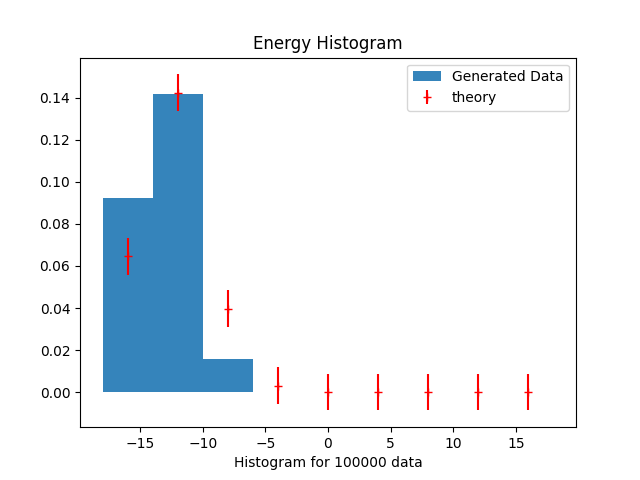
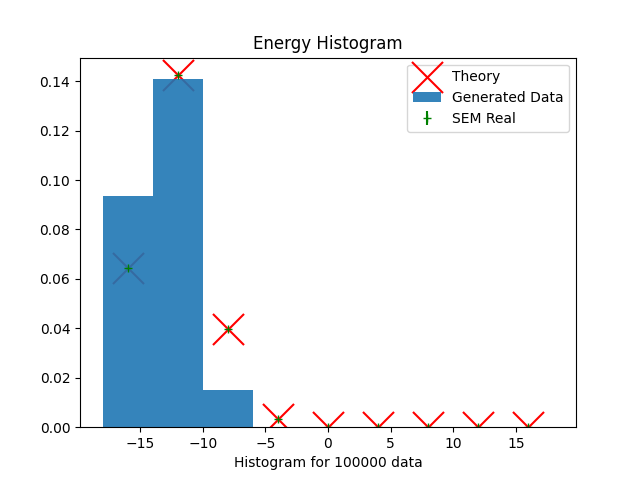
Histograms Errors Update

diff --git a/testData_x016.py b/testData_x016.py
@@ -5,7 +5,8 @@ isingSize = 16  # <- size of ising model configuration
 inputNoise = 32  # <- size of input noise
 beta = "s0100"
 
-fakeDataPath = "outIsingData/" + beta + "_x016/16-" + beta + "[" + str(inputNoise) + "]/outputData(16-" + beta + ")TestFileLinear[" + str(inputNoise) + "]Generated.npy"  # <-path to save the data
+fakeDataPath = "outIsingData/" + beta + "_x016/16-" + beta + "[" + str(
+    inputNoise) + "]/outputData(16-" + beta + ")TestFileLinear[" + str(inputNoise) + "].npy"  # <-path to save the data
 ising_fakeData = np.load(fakeDataPath)  # <- data for the test from the generated batch data
 # ising_data = np.load('outIsingData/outputDataTestFileLinear4.npy')  # <- test data coming from the generator
 
@@ -28,12 +29,29 @@ fakeEnergy = -(fakeData * np.roll(fakeData, 1, 1)).sum(1).astype('int64')
 fakeMagnetization = fakeData.sum(axis=1)
 
 energy_histogram_filename = "outIsingData/" + beta + "_x016/16-" + beta + "[" + str(
-    inputNoise) + "]/EnergyHistogram.png"
+    inputNoise) + "]/EnergyHistogramWithError.png"
 magnetization_histogram_filename = "outIsingData/" + beta + "_x016/16-" + beta + "[" + str(
-    inputNoise) + "]/MagnetizationHistogram.png"
+    inputNoise) + "]/MagnetizationHistogramWithError.png"
 
-def calculate_sem(data):
-    return np.std(data) / np.sqrt(len(data))
+
+def calculate_std_error(hist_counts):
+    # Obliczenie błędu standardowego przy użyciu statystyki poissonowskiej
+    return np.sqrt(hist_counts)
+
+
+def histogram_with_errors(data, edges, density, label):
+    hist_counts, _ = np.histogram(data, edges, density=density)
+    bin_centers = 0.5 * (edges[:-1] + edges[1:])
+    std_errors = calculate_std_error(hist_counts)
+
+    if density:
+        # Normalize std error if histogram is density
+        area = np.diff(edges).sum()
+        std_errors = std_errors / (hist_counts.sum() * area)
+
+    # Użycie funkcji errorbar do narysowania histogramu z niepewnościami
+    plt.errorbar(bin_centers, hist_counts, yerr=std_errors, fmt='o', label=label)
+
 
 def showSyntheticDataChart():
     plt.figure(figsize=(7, 5))
@@ -66,38 +84,26 @@ def countDuplicates():
 
 
 def energyHistogram(fakeEnergy, realEnergy):
-    plt.title("Energy Histogram")
-    ms = np.arange(-isingSize, isingSize + 0.5, 4)
+    plt.figure(figsize=(8, 6))
+    plt.title(f"Energy Histogram for {dataLength} data")
     es = np.arange(-isingSize - 2, isingSize + 2.5, 4)
-    hist_fake, bins_fake = np.histogram(fakeEnergy, es, density=True)
-    hist_real, bins_real = np.histogram(realEnergy, es, density=True)
-
-    sem_fake = calculate_sem(fakeEnergy)
-    sem_real = calculate_sem(realEnergy)
-
-    plt.xlabel(f"Histogram for {dataLength} data")
-    plt.errorbar(ms, hist_real, yerr=sem_real, fmt='+', c='red', label='theory')
-    # plt.scatter(ms, hist_real, marker='+', s=500, c='red', label='theory')
-    plt.hist(fakeEnergy, bins=bins_fake, density=True, alpha=0.9, label='Generated Data')
+    histogram_with_errors(fakeEnergy, es, density=True, label='Generated Data')
+    histogram_with_errors(realEnergy, es, density=True, label='Theory')
+    plt.xlabel("Energy")
+    plt.ylabel("Probability Density")
     plt.legend()
     plt.savefig(energy_histogram_filename)
     plt.show()
 
 
 def magnetizationHistogram(fakeMagnetization, realMagnetization):
-    plt.title("Magnetization Histogram")
-    ms = np.arange(-isingSize, isingSize + 0.5, 2)
+    plt.figure(figsize=(8, 6))
+    plt.title(f"Magnetization Histogram for {dataLength} data")
     es = np.arange(-isingSize - 1, isingSize + 1.5, 2)
-    hist_fake, bins_fake = np.histogram(fakeMagnetization, es, density=True)
-    hist_real, bins_real = np.histogram(realMagnetization, es, density=True)
-
-    sem_fake = calculate_sem(fakeMagnetization)
-    sem_real = calculate_sem(realMagnetization)
-
-    plt.xlabel(f"Histogram for {dataLength} data")
-    plt.errorbar(ms, hist_real, yerr=sem_real, fmt='+', c='red', label='theory')
-    # plt.scatter(ms, hist_real, marker='+', s=500, c='red', label='theory')
-    plt.hist(fakeMagnetization, bins=bins_fake, density=True, alpha=0.9, label='Generated Data')
+    histogram_with_errors(fakeMagnetization, es, density=True, label='Generated Data')
+    histogram_with_errors(realMagnetization, es, density=True, label='Theory')
+    plt.xlabel("Magnetization")
+    plt.ylabel("Probability Density")
     plt.legend()
     plt.savefig(magnetization_histogram_filename)
     plt.show()
@@ -115,15 +121,8 @@ def print_statistics(magnetization, energy):
 
 
 def main():
-    # showSyntheticDataChart()
-    # countDuplicates()
     energyHistogram(fakeEnergy, realEnergy)
     magnetizationHistogram(fakeMagnetization, realMagnetization)
-    # count = 0
-    # for i in range(len(magnetization)):
-    #     if magnetization[i] == 15:
-    #         count = count + 1
-    # print(count)
 
     print("\n--- Real Data Statistics ---")
     print_statistics(realMagnetization, realEnergy)
